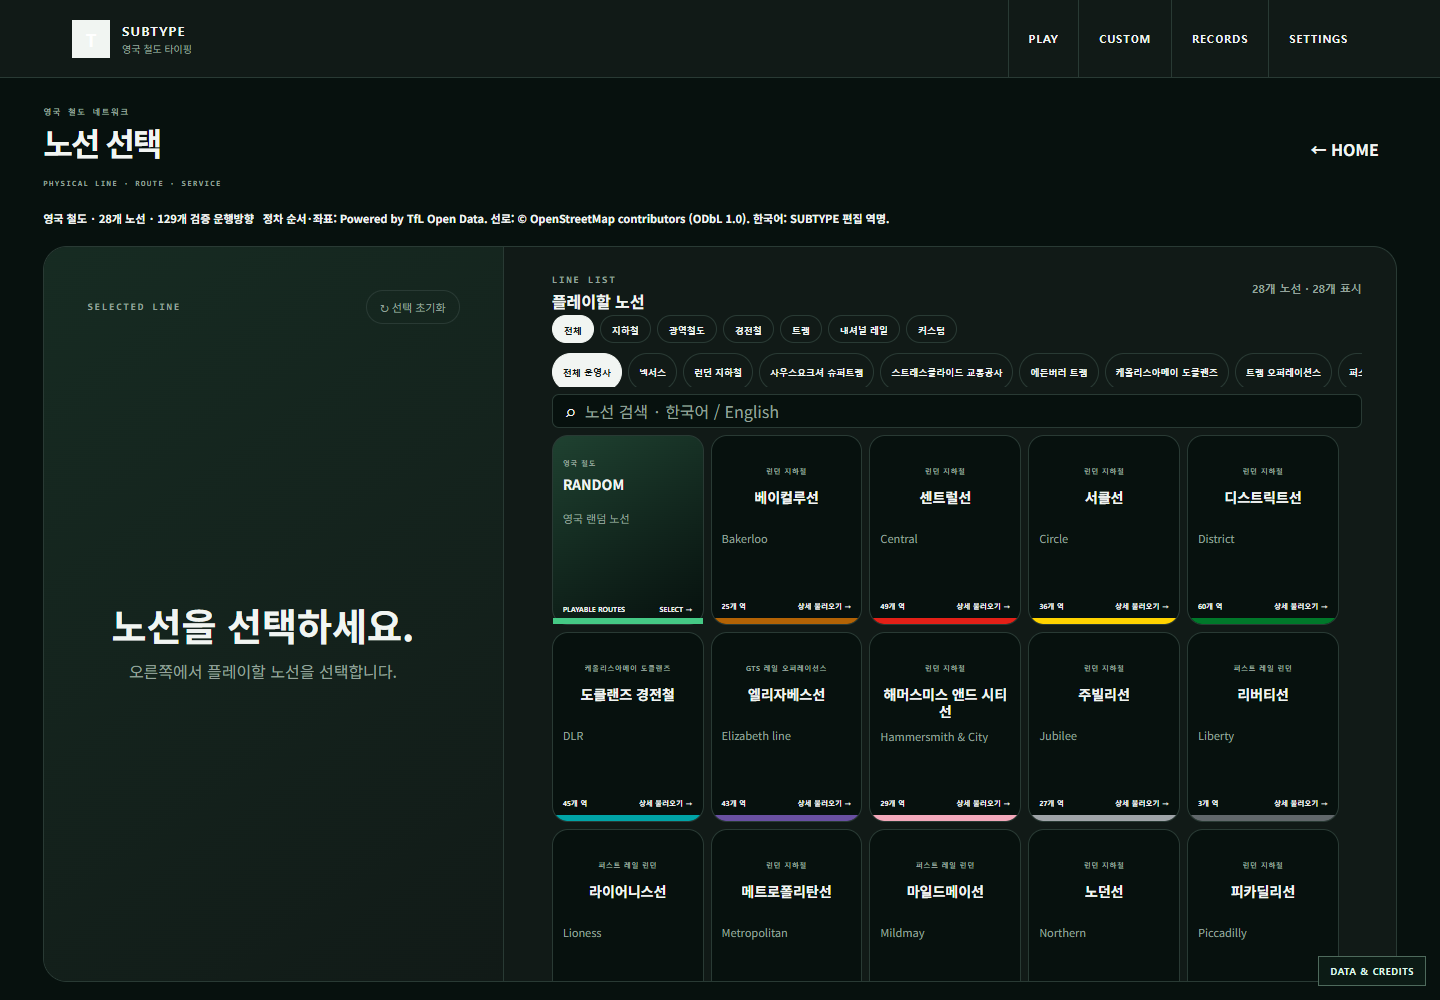
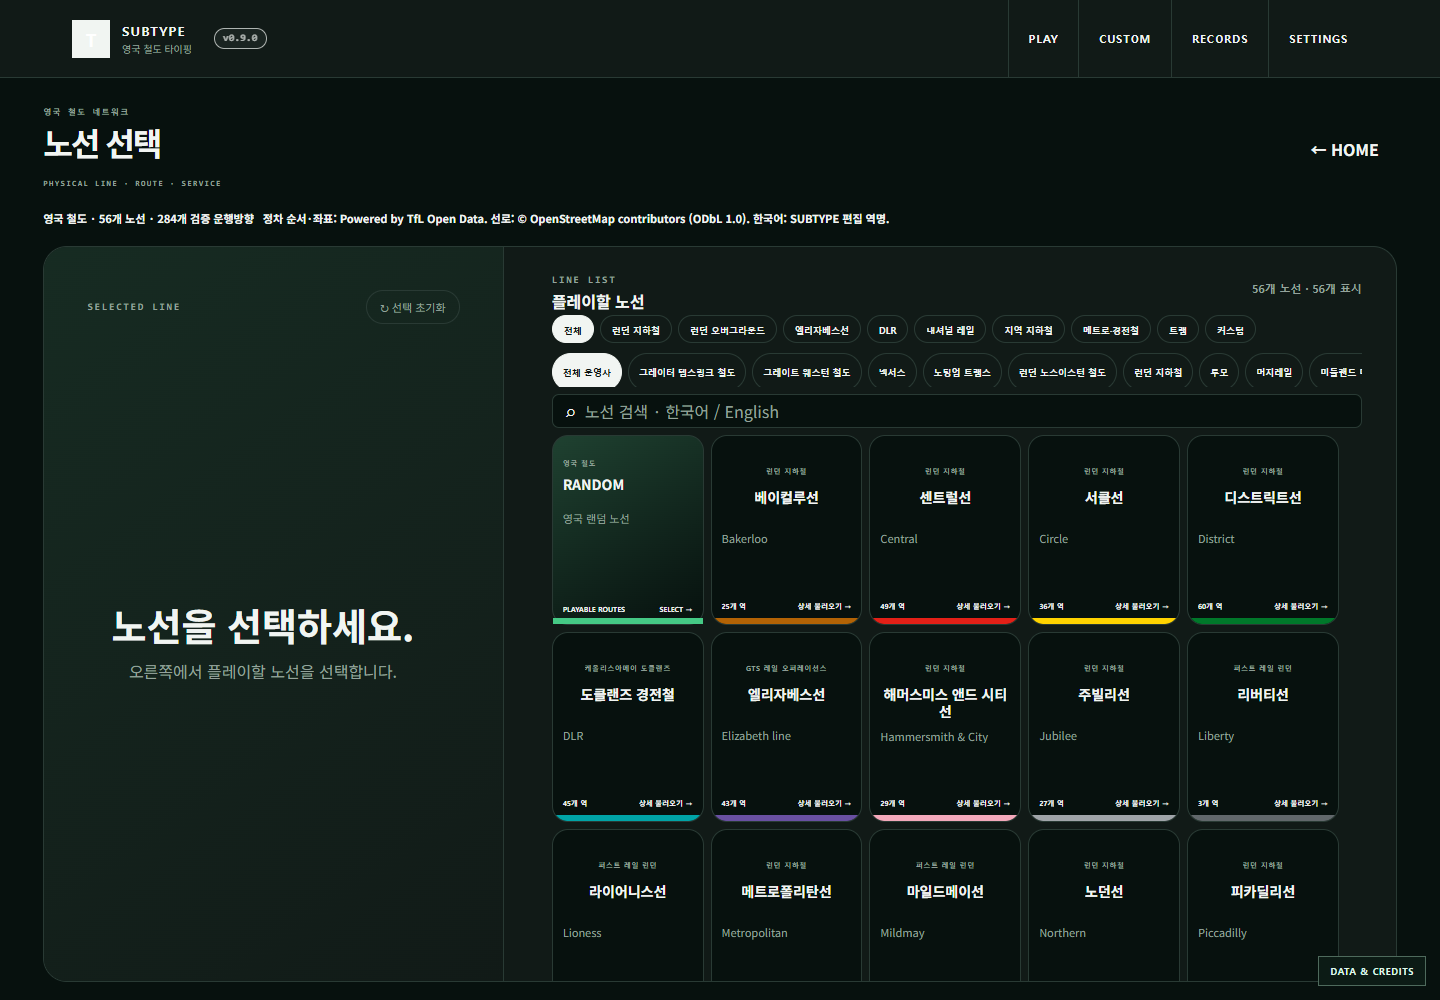
docs(uk): record verified 284-direction production release

Changed region(s): [[0.4375, 0.31, 0.9375, 0.403], [0.1562, 0.031, 0.1875, 0.062]]

diff --git a/docs/uk-railway-expansion-progress.md b/docs/uk-railway-expansion-progress.md
@@ -108,7 +108,7 @@ Station IDs count source records. Physical station groups reuse published TfL hu
 - Repairs: import real track edges independently of incomplete stop membership; backtrack failed platform choices; consider 128 candidate vertices within the original 300 metre gate; explicitly anchor Heathrow T5 to documented OSM platform nodes 1508864707/254350058. No synthetic junctions or straight-line railway segments were added.
 - Fresh District, DLR, Elizabeth and Northern TfL stopping sequences matched the preserved official source sequences on November 10. No London regular sequence remains blocked: 0.
 - Regional expansion: Manchester Metrolink covers all 99 stops and current regular/part-day routes, including the Trafford Centre–Crumpsall service and Eccles variants. NET includes both lines, all 50 stops, and different northbound/southbound city loops. Blackpool includes direct coastal and North Station variants. West Midlands Metro includes both Wolverhampton termini; Millennium Point through-running remains excluded pending sufficient route evidence.
-- National expansion includes Lumo, Merseyrail Northern/Wirral branches, seven ScotRail corridors, and LNER stopping patterns individually connected to real track nodes. Further operators are inventoried in the table above as they are released.
+- National Rail includes 8 operating organisations, 23 corridors and 111 directions: Lumo, Merseyrail, ScotRail, LNER, Avanti West Coast, Greater Thameslink Railway (Great Northern and Thameslink), GWR and Heathrow Express.
 - Additional timetable comparison was stopped at the user's request. Previously completed LNER evidence remains reproducible reference data. Further expansion uses official network maps and source OSM route relations, with geometry and gameplay checks; it does not claim timetable certification.
 
 ## Validation actually observed
@@ -120,6 +120,7 @@ Station IDs count source records. Physical station groups reuse published TfL hu
 - Full UK free-drive progression: {"status":"PASS","directions":284,"transitions":4871}. Geometry loading: {"status":"PASS","files":109,"wholePoolRequested":false,"duplicateRequests":0}.
 - Edit propagation, English/Korean nameboards and mobile checks are recorded in the browser reports. Regional nameboard checks: 6.
 - UK ranking identity test uses isolated guest data. No authenticated fabricated score is uploaded.
+- Linux GitHub Actions full UK run: PASS — https://github.com/s3h0726/SUBTYPE/actions/runs/42844680157. On Windows, the Node entry points in the requested npm scripts were run directly because an npm executable was unavailable.
 - Known pre-existing global issues remain separate: 267 legacy station-master duplicates, 40 previously blocked route-audit cases, and missing Ueno payload line-11229--jobansen-totte-iwaki.json. These are not claimed fixed by this expansion.
 
 ## Source accuracy and licensing
@@ -131,16 +132,18 @@ Station IDs count source records. Physical station groups reuse published TfL hu
 ## Git and deployment
 
 - Working branch: feature/uk-railway-completion.
-- Report predecessor HEAD: 10a6e94ffb4bc4fdb398a8e08fa81f423bc377a2. The report's own commit can be found in Git history.
-- Main integration of this expansion: pending.
-- Production verification for this expansion: pending; actual public UI: pending.
+- Verified implementation commit: 324c9b45e8e3efbb6ccd1dde38b8696ba1965efa.
+- Report predecessor HEAD: 8bbd05b5954e767e83841f13f912926e71b027f5. The report's own commit can be found in Git history.
+- Main integration of this expansion: pushed directly to main; verified implementation remains in its history.
+- Production verification for this expansion: success; actual public UI: PASS.
+- Observed production: 2026-11-11T13:55:59.160Z; workflow https://github.com/s3h0726/SUBTYPE/actions/runs/42844679896. Representative completions: uk-waterloo-city (2 stops), uk-heathrow-express (3 stops), uk-metrolink (33 stops). Production bundle SHA-256: 16cd9bffe27977e5bd1e2794477f6eaf5e4a746287ab43bad9ab594f71383a44.
 - This section reflects reports/uk/release-status.json. The November 8 deployment is stored separately as previousRelease and is not evidence of this expansion's deployment.
 
 ## Precise remaining work
 
 1. West Midlands Millennium Point services: source relations 20439814/20439815 exist, but complete passenger through-running and reversal assumptions are not released. Do not treat all track stop nodes as a certified stopping pattern.
 2. Manchester early/late depot and short-turn variants beyond published regular services; Blackpool additional turnbacks; Edinburgh short turns; additional Tyne/Wear and Sheffield variants.
-3. Remaining National Rail corridors/operators: South Western Railway, Southern, Southeastern, Greater Anglia, c2c, Chiltern, East Midlands Railway, West Midlands Railway/London Northwestern Railway, CrossCountry, Northern, TransPennine Express, Transport for Wales, Hull Trains, Grand Central and all unlisted branches of operators already present. Check the current inventory before adding any duplicate.
+3. Remaining National Rail corridors/operators: South Western Railway, Southern, Southeastern, Greater Anglia, c2c, Chiltern, East Midlands Railway, West Midlands Railway/London Northwestern Railway, CrossCountry, Northern, TransPennine Express, Transport for Wales, Hull Trains, Grand Central and Caledonian Sleeper. Among the operators already present, the opposite directions for the three Avanti Manchester variants, Avanti Liverpool and Heathrow Express need independently verified track sources. The Sleeper's archived Highland relations predate the Birmingham International change; confirm commercial calls on the Lowland services before using their source relations. Check the inventory before adding any duplicate.
 4. Remaining high-speed/international coverage: Southeastern HS1, Eurostar complete UK/Channel Tunnel/continental alignments, and international station localization. HS2 remains excluded until actual passenger operations are evidenced.
 5. Continue Korean editorial review against established Korean references, preserve existing overrides, and add explicitly evidenced interchanges whose official English station names differ.
 6. For each additional batch, preserve stable IDs, assemble only source railway node edges, run full direction gameplay and regressions, commit, push main and verify the public site. Source OSM API parent discovery returned HTTP 429 during this session; do not treat unavailable source data as permission to invent a route.
